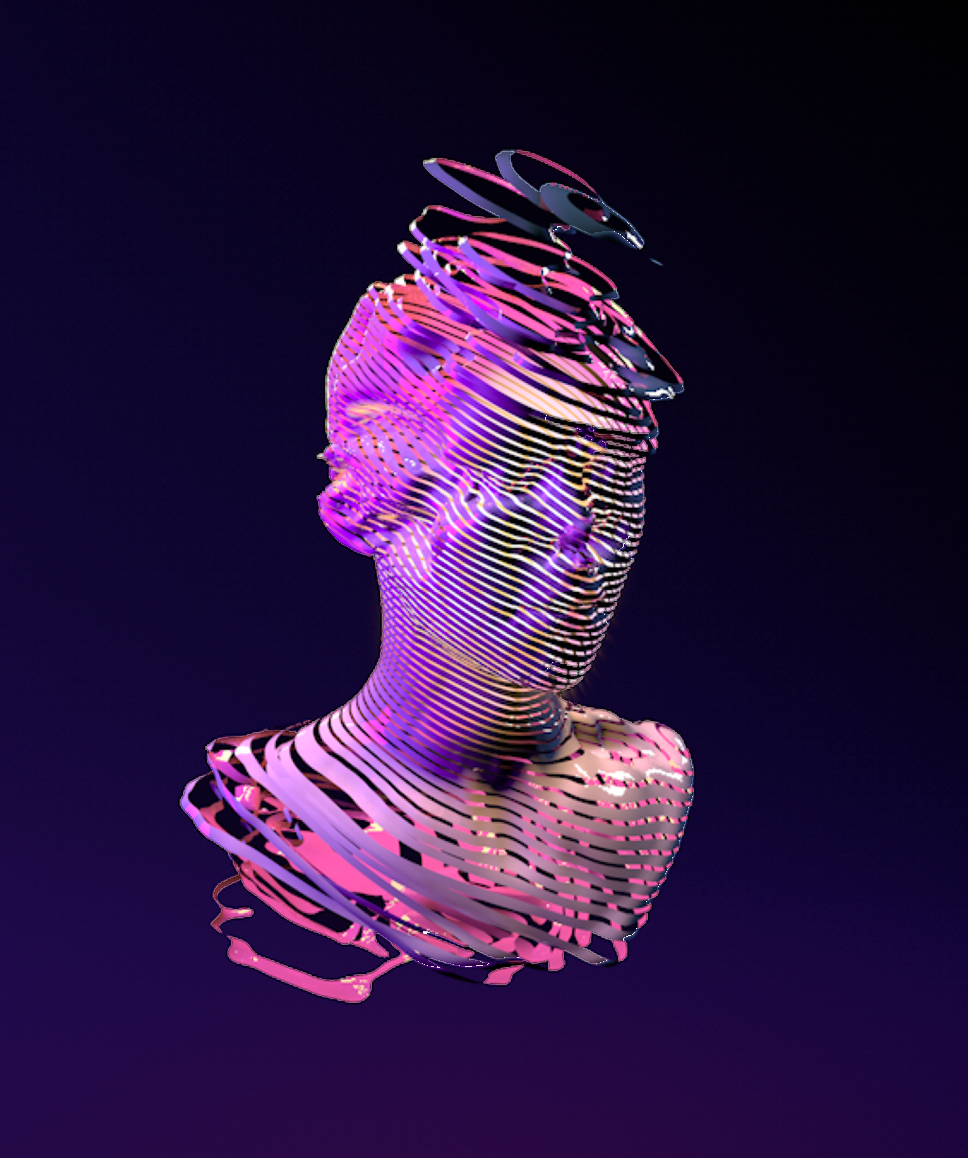
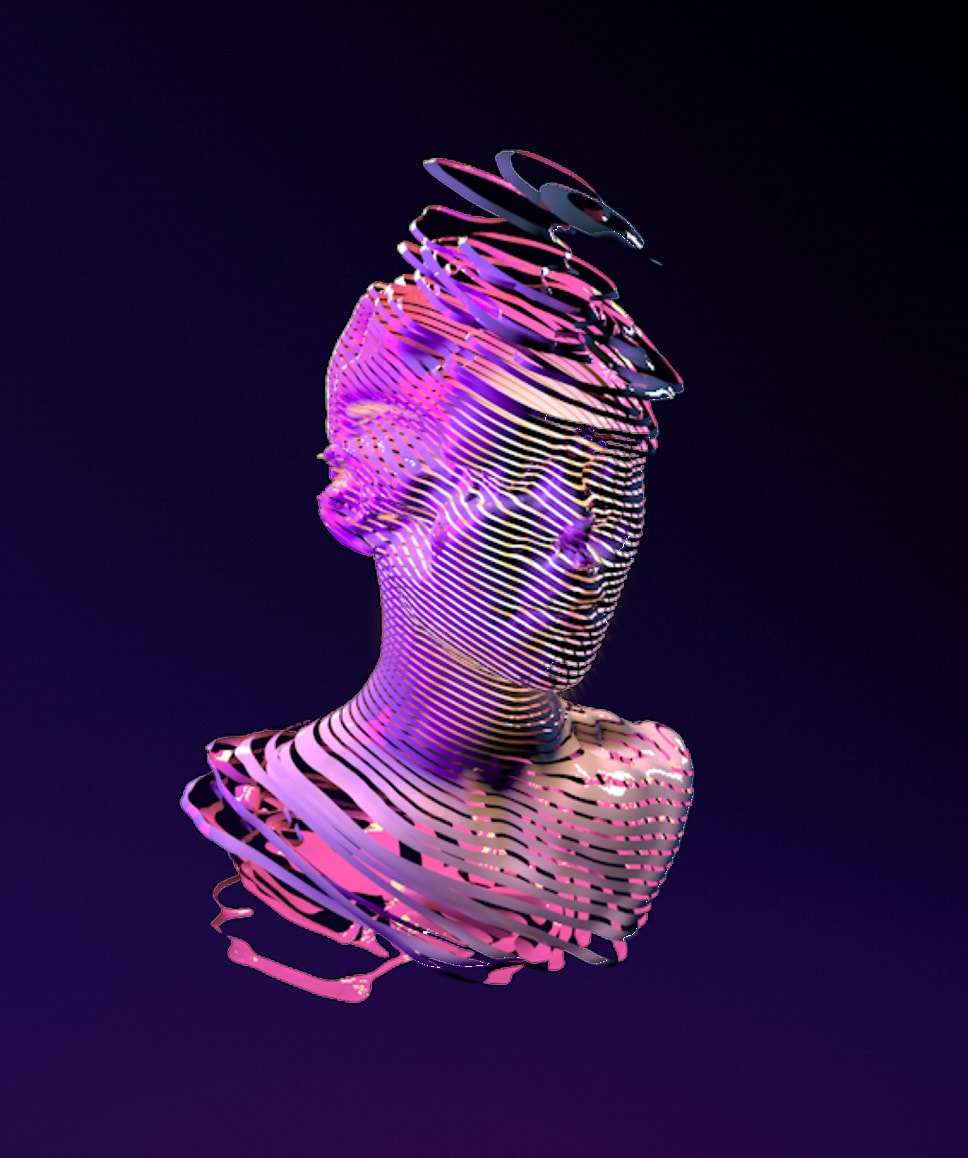
updated content

Changed region(s): [[0.3409, 0.3109, 0.5579, 0.6528], [0.3409, 0.2487, 0.4029, 0.3109]]

diff --git a/src/app/components/pages/threedesign/threedesign.component.css b/src/app/components/pages/threedesign/threedesign.component.css
@@ -1,5 +1,5 @@
 .threehead {
-    background-image: url(/assets/full_screen/desktop/head2.png);
+    background-image: url(/assets/full_screen/desktop/head.png);
 }
 
 .threebody {
